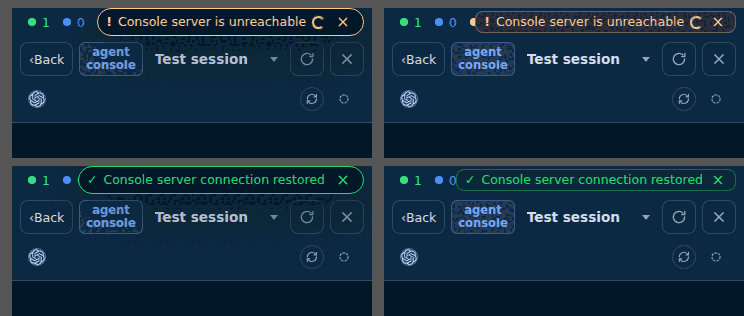
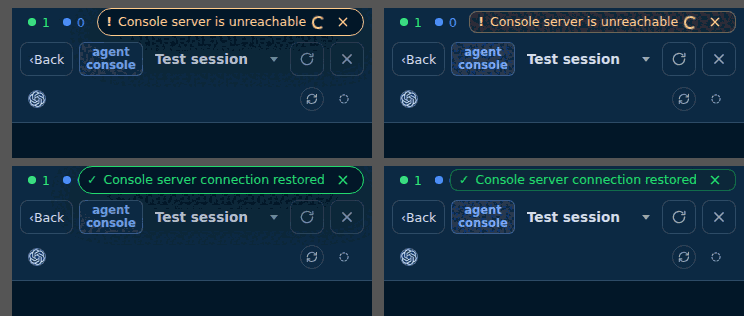
docs(ui): replace the notice captures with matched final-geometry images
- Recapture the before/after pairs from the main styles and the composed
  branch styles so the after images show the final 24px dismiss geometry.
- Say in the devlog evidence how the captures were produced.

Changed region(s): [[0.6183, 0.0285, 0.9892, 0.1139], [0.5874, 0.5411, 0.9892, 0.5981]]

diff --git a/docs/devlog/2026-10.md b/docs/devlog/2026-10.md
@@ -25,8 +25,9 @@
   radius, message contrast of at least 4.5, and on the conversation page a
   centre within 1px of the count row and at least 3px below the top edge. The
   placement and notice layout tests still pass. Before/after captures use
-  synthetic fixture data and one dark theme (left before, right after; top row
-  warning, bottom row restored).
+  synthetic fixture data and one dark theme, taken from the main styles before
+  and the composed branch styles after (final 24px dismiss geometry); left
+  before, right after, top row warning, bottom row restored.
   List header: [360](assets/inline-notice-style/notice-list-360-before-after.png), [412](assets/inline-notice-style/notice-list-412-before-after.png), [600](assets/inline-notice-style/notice-list-600-before-after.png), [768](assets/inline-notice-style/notice-list-768-before-after.png), [1280](assets/inline-notice-style/notice-list-1280-before-after.png).
   Conversation page: [360](assets/inline-notice-style/notice-conversation-360-before-after.png), [412](assets/inline-notice-style/notice-conversation-412-before-after.png), [600](assets/inline-notice-style/notice-conversation-600-before-after.png), [768](assets/inline-notice-style/notice-conversation-768-before-after.png), [1280](assets/inline-notice-style/notice-conversation-1280-before-after.png).
 
